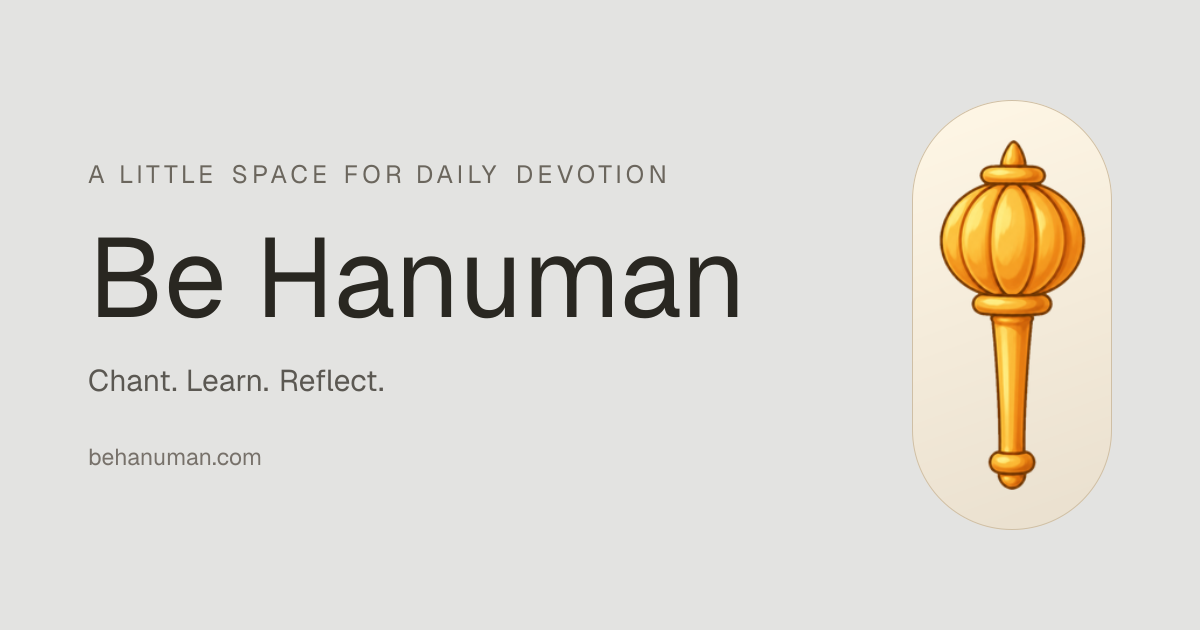
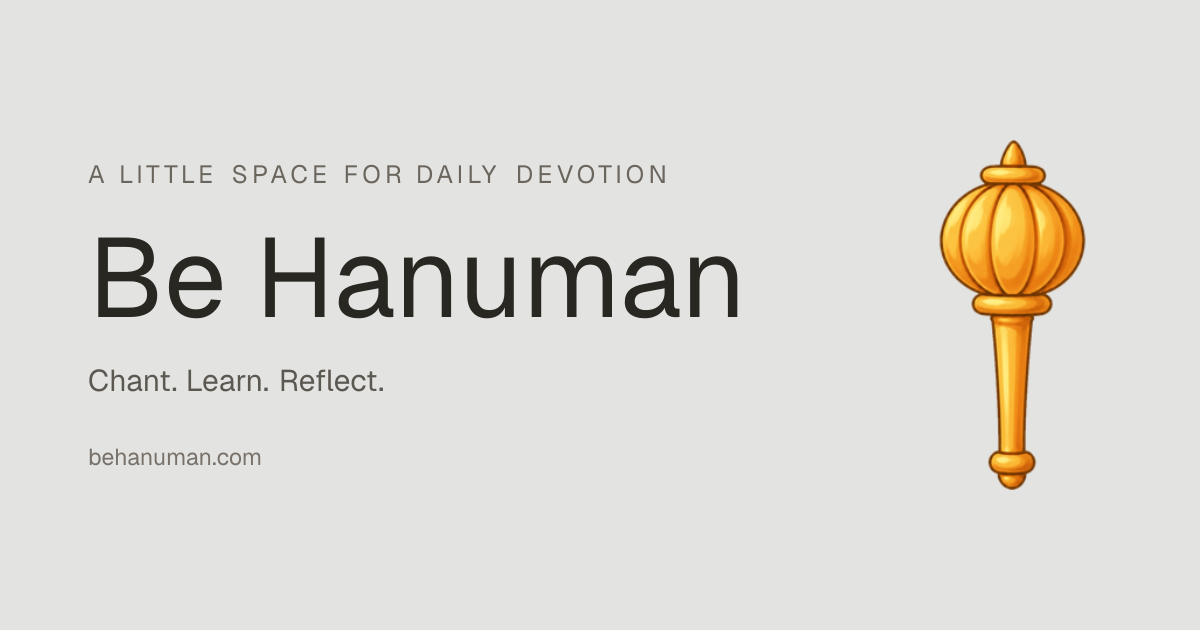
Fix migrated reader artwork paths and remove added gada ovals

Changed region(s): [[0.74, 0.1508, 0.8942, 0.2714]]

diff --git a/tests/reader-assets.test.ts b/tests/reader-assets.test.ts
@@ -1,0 +1,8 @@
+import {expect,test} from 'vitest';
+import {readFileSync} from 'node:fs';
+import {runInNewContext} from 'node:vm';
+const renderer=readFileSync('public/restored/engine.js','utf8');
+const assetCode=renderer.slice(renderer.indexOf('  var BASE='),renderer.indexOf('  function strip('));
+test('reader routes use root assets while file exports remain relative',()=>{for(const pathname of ['/','/app','/app/','/app?entry=home']){const ctx={location:{protocol:'https:',pathname},window:{TEST_IMG:'placeholder'}};runInNewContext(assetCode,ctx);expect((ctx as typeof ctx&{BASE:string}).BASE).toBe('/');}const local={location:{protocol:'file:',pathname:'/saved/index.html'},window:{TEST_IMG:'placeholder'}};runInNewContext(assetCode,local);expect((local as typeof local&{BASE:string}).BASE).toBe('');});
+test('missing artwork retries root-relative extensions before the final placeholder',()=>{const ctx={location:{protocol:'https:',pathname:'/app'},window:{TEST_IMG:'placeholder',__imgFail:undefined as unknown as (img:object)=>void}};runInNewContext(assetCode,ctx);const img={dataset:{n:'missing',k:'0'},src:'',onerror:()=>{}};ctx.window.__imgFail(img);expect(img.src).toBe('/images/missing.jpeg');ctx.window.__imgFail(img);expect(img.src).toBe('/images/missing.png');ctx.window.__imgFail(img);expect(img.src).toBe('/images/missing.webp');ctx.window.__imgFail(img);expect(img.src).toBe('placeholder');expect(img.onerror).toBeNull();});
+test('restoration adapts frozen HTML to the same asset base without editing the reference',()=>{const source=readFileSync('scripts/restore-original.mjs','utf8'),start=source.indexOf('const assetBase='),end=source.indexOf("body+='<div",start);expect(start).toBeGreaterThan(0);const reference=readFileSync('history/html-v1/index.html','utf8');const ctx={engine:reference};runInNewContext(source.slice(start,end),ctx);expect(ctx.engine).toContain('var BASE=location.protocol==="file:"?"":"/";');expect(reference).toContain('var BASE=(function(){');expect(readFileSync('public/images/02.jpg').equals(readFileSync('public/images/03.jpg'))).toBe(false);});

diff --git a/public/restored/engine.js b/public/restored/engine.js
@@ -380,13 +380,8 @@ window.FACTS=[{"id":1,"s":"Origin story","t":"Born of the wind's blessing","st":
   var goal=0,round=1;
   try{goal=parseInt(localStorage.getItem("bh_goal")||"0",10)||0;round=parseInt(localStorage.getItem("bh_round")||"1",10)||1}catch(e){}
   function saveRounds(){try{localStorage.setItem("bh_goal",String(goal));localStorage.setItem("bh_round",String(round))}catch(e){}}
-  // Folder this page lives in, so images load from /BeHanuman/images/ even when the URL has no trailing slash.
-  var BASE=(function(){
-    if(location.protocol==="file:")return "";
-    var p=location.pathname;
-    if(!/\/$/.test(p)&&!/\.[a-z0-9]+$/i.test(p))p+="/";
-    return p.replace(/[^\/]*$/,"");
-  })();
+  // Next serves public assets from the root, including when the reader is at /app.
+  var BASE=location.protocol==="file:"?"":"/";
   function pad(n){return(n<10?"0":"")+n}
   function esc(s){return String(s).replace(/[&<>"]/g,function(c){return{"&":"&amp;","<":"&lt;",">":"&gt;",'"':"&quot;"}[c]})}
 

diff --git a/src/app/home.css b/src/app/home.css
@@ -65,3 +65,5 @@ html[data-simple=true] #tabbar #tbRestart{left:auto!important;transform:none!imp
 #hi-screen .hi-citation>summary{cursor:pointer;display:flex;align-items:center;min-height:44px;color:var(--ac)}
 #hi-screen .hi-composer-controls button{background:linear-gradient(#ffb257,#ff861a)!important;border-color:#ffce9a!important;color:#fff!important}
 #hi-screen .hi-stream-inner{padding-bottom:24px}
+/* Keep the original moving gada; remove the added oval progress ring. */
+#prog .mark::after{display:none}

diff --git a/docs/RELEASE-2026-10-17.md b/docs/RELEASE-2026-10-17.md
@@ -37,3 +37,14 @@ Chat now has right-side reader bubbles and left-side h.i paragraphs, sources in 
 Verification: 66 tests in 12 files pass, types/lint/local and hosted builds pass. Browser: existing signed-in account shows 3/3, free lookup preserves it, no sample card, Learn banner count zero, 390px and desktop checked, all four theme backgrounds match shared theme variables. No paid generation was made for this update. Actual new ordinary Google login, physical iPhone/Pixel sync and paid response acceptance remain user tests; mocked tests are not that evidence. HI_ENABLED is restored true; admin canary remains false. Core auth, reading, learning progress and launch baseline are preserved.
 
 Submission requirements and optional badges must be distinguished: report actual available visitor/signup/payment metrics and screenshots honestly, using zero/unavailable where appropriate. Ten users, asked-to-pay evidence and a first payment are optional badge evidence, not universal prerequisites. No submission or outreach was performed.
+
+
+## Approved artwork corrections — 17 October 2026
+
+Current test frontend: gqzcpw32y / dpl_4MLgq13veaxKb5oo6So2fH7KYWUJ, https://be-hanuman-preview-gqzcpw32y-sethimailbox1-9537s-projects.vercel.app/ , promoted to https://www.behanuman.com/ . This supersedes the prior targeted frontend. Original hanuman.dyut.si is unchanged; no backend deployment, authentication change, paid provider request, merge or data reset occurred in this correction.
+
+The migrated reader at /app incorrectly built /app/images/... URLs, then displayed the same embedded fallback when assets returned404. Public assets now use root-relative /images/... and /audio/... paths; file-protocol export remains relative. The restoration script applies the same adaptation without modifying history/html-v1/index.html. Fallback extension handling is retained. The added oval progress ring around the reader gada is hidden; the original gada, its position/progress and goal-details control remain. The wide social image's separate capsule decoration is removed without changing the gada art, square WhatsApp thumbnail or icons.
+
+Verification:69 tests across13 files, lint, TypeScript, syntax checks and hosted build pass. New regressions cover /app asset resolution, extension/placeholder fallback and regeneration from the frozen reference. Public browser loaded45 light images including the breathing fact artwork, and all44 verse/ending dark images. Chaupai1 and2 display distinct original images; desktop dark and390px light screenshots recorded. Published pseudo-element display is none. HI remains available with the existing three-attempt account quota, shared500-attempt cap and visible3/3 allowance. No generated response was requested. Existing theme/chat/Learn changes remain. Physical iPhone/Pixel acceptance remains manual.
+
+Archive consolidation is unresolved: leave Browse stories, Past stories and Home unchanged until the intended items are clarified. No canned conversation is presented as a generated reply.

diff --git a/docs/REVIEWER.md b/docs/REVIEWER.md
@@ -2,7 +2,7 @@
 
 Test URL: https://www.behanuman.com/ . Original app https://hanuman.dyut.si/ remains separate.
 
-Current tested frontend is aou2rx439 / dpl_2UTBWtheK9P1o1FZgFehJWWAq1FA. Read RELEASE-2026-10-17.md; the old core commit alone does not contain this final release. Do not use any maintainer key or account for local setup.
+Current tested frontend is gqzcpw32y / dpl_4MLgq13veaxKb5oo6So2fH7KYWUJ. Read RELEASE-2026-10-17.md; the old core commit alone does not contain this final release. Do not use any maintainer key or account for local setup.
 
 ## Phone journey
 
@@ -26,4 +26,6 @@ The copied source dataset is retained separately under its upstream ODbL1.0 noti
 Rollout checks use mocked provider responses; no additional paid end-to-end call was made for the public-access update. Anonymous/deleted identities remain blocked; non-QA authentication is covered by tests. The persistent app allowance reserves one cent per attempt, stops at500, keeps failed reservations and has no time-based reset. This is not an account-wide invoice cap.
 
 
-Latest targeted test release: three lifetime Claude attempts per account, across devices, with paid errors counting and free story lookup unchanged. All 66 automated tests pass; no new paid end-to-end call. Chat uses shared themes and in-memory conversation bubbles; Learn no longer has the h.i banner. Explicit Find a story then Reflect with Claude remains. See the final targeted update in RELEASE-2026-10-17.md.
+Latest targeted test release: three lifetime Claude attempts per account, across devices, with paid errors counting and free story lookup unchanged. All 69 automated tests pass; no new paid end-to-end call. Chat uses shared themes and in-memory conversation bubbles; Learn no longer has the h.i banner. Explicit Find a story then Reflect with Claude remains. See the final targeted update in RELEASE-2026-10-17.md.
+
+Artwork correction: /app now uses root assets; distinct Chaupai1/2 and all44 dark images checked in the published browser. Reader gada oval and wide-share capsule removed; square WhatsApp icon unchanged. Archive consolidation remains pending clarification.
